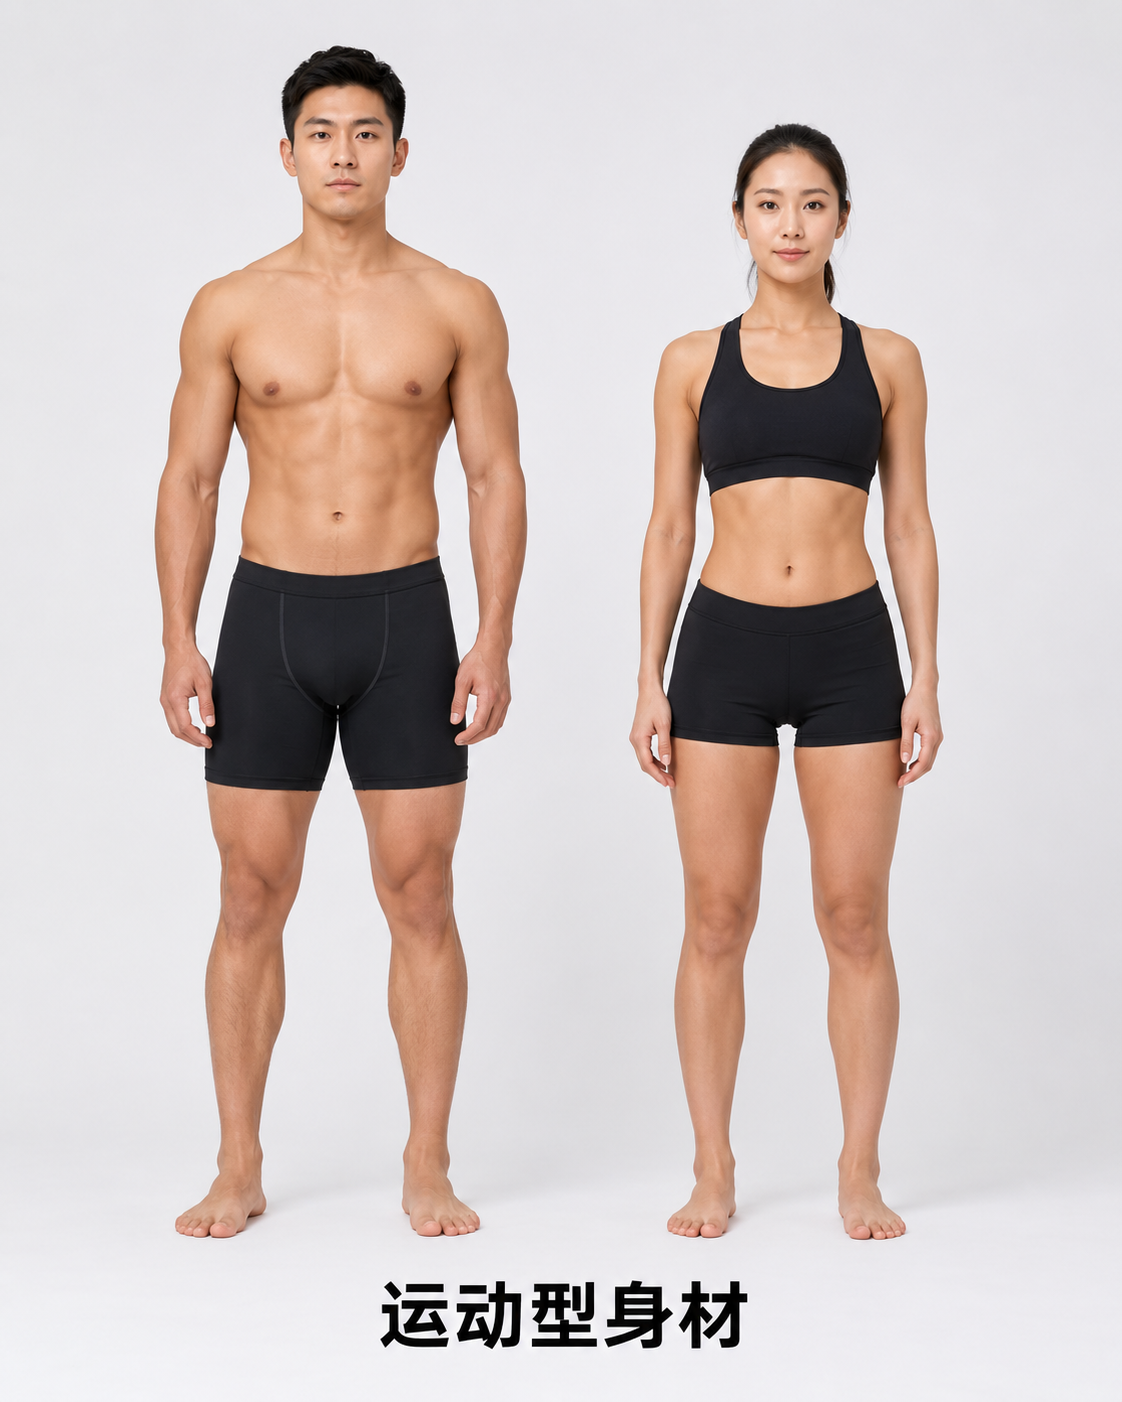
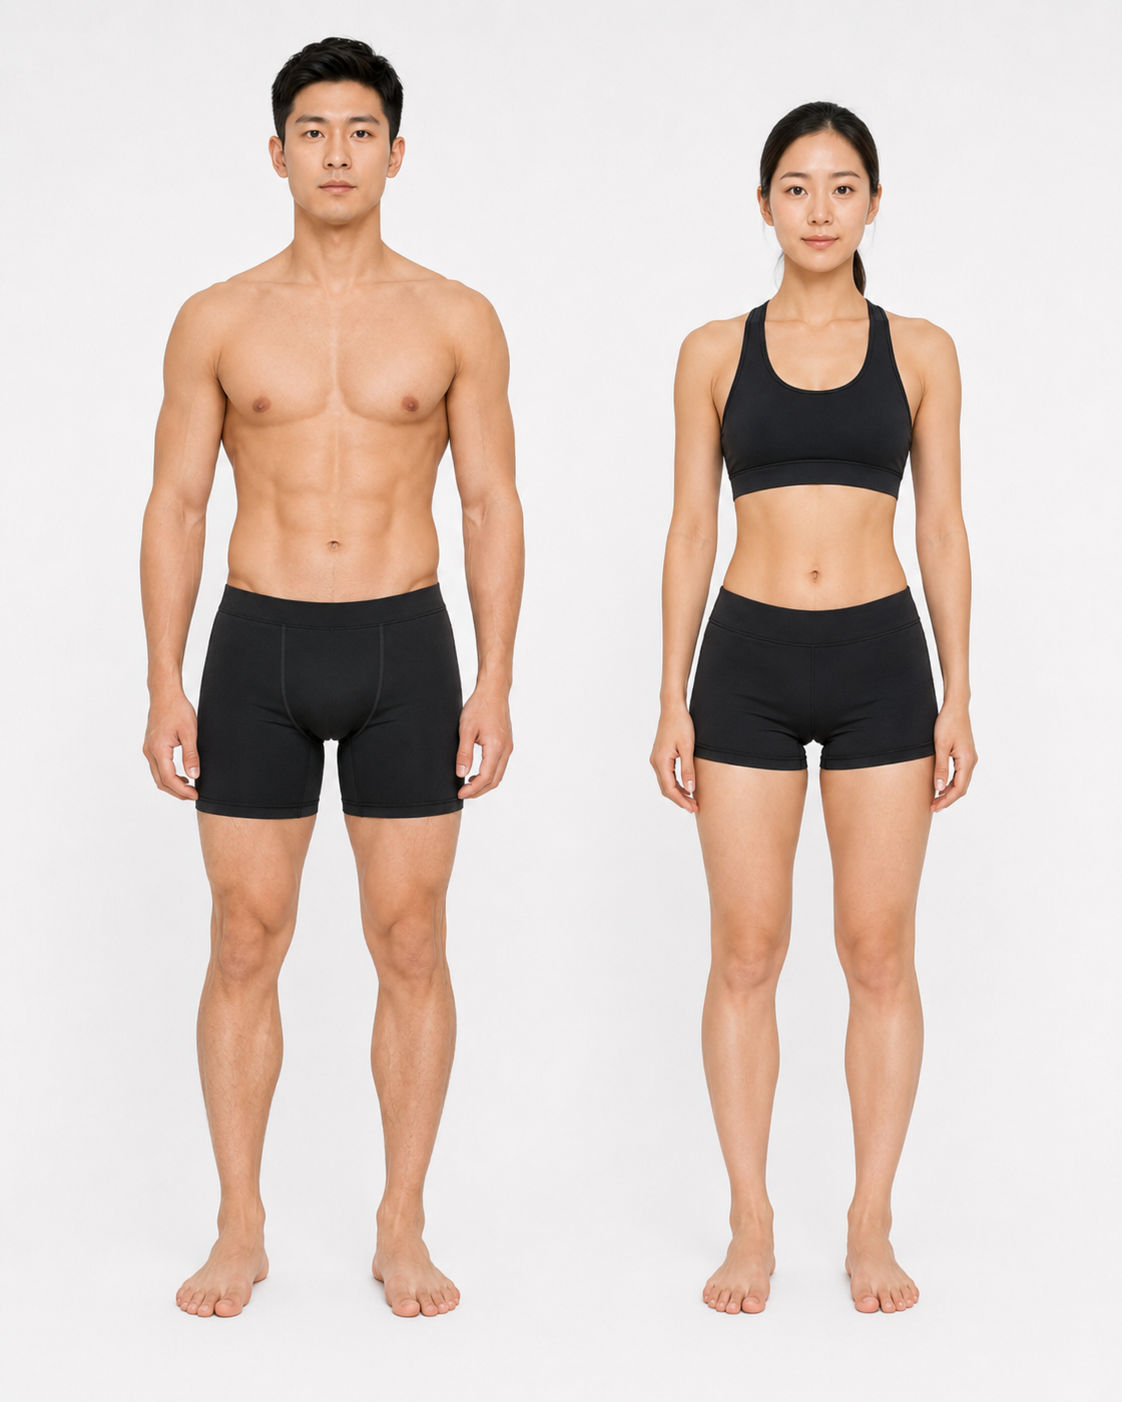
新增周训练计划总览表并更新目标身材例图
训练计划页顶部展示周一到周日安排，动作可跳转至下方视频；替换 athletic/lower/v-taper 目标身材 PNG。

Changed region(s): [[0.1248, 0.0, 0.8734, 0.9815], [0.9046, 0.6134, 1.0, 0.8281], [0.1872, 0.184, 0.2184, 0.2147]]

diff --git a/src/components/WeeklyPlanOverview.jsx b/src/components/WeeklyPlanOverview.jsx
@@ -1,0 +1,97 @@
+import { buildWeeklyOverviewRows, getDayAnchorId } from '../utils/planOverview'
+import './WeeklyPlanOverview.css'
+
+function scrollToAnchor(anchorId) {
+  const target = document.getElementById(anchorId)
+  if (!target) return
+  target.scrollIntoView({ behavior: 'smooth', block: 'start' })
+  target.classList.add('plan-overview-flash')
+  window.setTimeout(() => {
+    target.classList.remove('plan-overview-flash')
+  }, 1200)
+}
+
+/**
+ * @param {{ plan: object|null }} props
+ */
+export default function WeeklyPlanOverview({ plan }) {
+  const rows = buildWeeklyOverviewRows(plan)
+
+  if (rows.length === 0) return null
+
+  return (
+    <section className="weekly-plan-overview" aria-label="本周训练计划总览">
+      <header className="weekly-plan-overview-header">
+        <h2>本周训练计划总览</h2>
+        <p className="muted">点击动作名称可跳转到下方对应视频</p>
+      </header>
+
+      <div className="weekly-plan-overview-scroll">
+        <table className="weekly-plan-overview-table">
+          <thead>
+            <tr>
+              <th scope="col">星期</th>
+              <th scope="col">今日训练目标</th>
+              <th scope="col">动作列表</th>
+            </tr>
+          </thead>
+          <tbody>
+            {rows.map((row) => (
+              <tr
+                key={row.weekday}
+                className={[
+                  row.isToday ? 'is-today' : '',
+                  row.isRest ? 'is-rest' : '',
+                ]
+                  .filter(Boolean)
+                  .join(' ')}
+              >
+                <th scope="row">
+                  <span className="weekly-plan-weekday">{row.weekday}</span>
+                  {row.isToday && (
+                    <span className="weekly-plan-today-badge">今天</span>
+                  )}
+                </th>
+                <td>
+                  {row.isRest ? (
+                    <span className="weekly-plan-rest-label">{row.goal}</span>
+                  ) : (
+                    <button
+                      type="button"
+                      className="weekly-plan-goal-link"
+                      onClick={() =>
+                        row.dayIndex != null &&
+                        scrollToAnchor(getDayAnchorId(row.dayIndex))
+                      }
+                    >
+                      {row.goal}
+                    </button>
+                  )}
+                </td>
+                <td>
+                  {row.isRest ? (
+                    <span className="weekly-plan-rest-hint">{row.restHint}</span>
+                  ) : (
+                    <ul className="weekly-plan-exercise-list">
+                      {row.exercises.map((exercise) => (
+                        <li key={exercise.id}>
+                          <button
+                            type="button"
+                            className="weekly-plan-exercise-link"
+                            onClick={() => scrollToAnchor(exercise.anchorId)}
+                          >
+                            {exercise.name}
+                          </button>
+                        </li>
+                      ))}
+                    </ul>
+                  )}
+                </td>
+              </tr>
+            ))}
+          </tbody>
+        </table>
+      </div>
+    </section>
+  )
+}

diff --git a/src/components/WeeklyPlanOverview.css b/src/components/WeeklyPlanOverview.css
@@ -1,0 +1,157 @@
+.weekly-plan-overview {
+  padding: 1rem 1.1rem;
+  border-radius: var(--radius);
+  border: 1px solid var(--line);
+  background: var(--surface);
+  display: grid;
+  gap: 0.75rem;
+}
+
+.weekly-plan-overview-header h2 {
+  margin-bottom: 0.25rem;
+  font-size: 1.15rem;
+}
+
+.weekly-plan-overview-header .muted {
+  margin: 0;
+  font-size: 0.85rem;
+}
+
+.weekly-plan-overview-scroll {
+  overflow-x: auto;
+  -webkit-overflow-scrolling: touch;
+}
+
+.weekly-plan-overview-table {
+  width: 100%;
+  min-width: 520px;
+  border-collapse: collapse;
+  font-size: 0.9rem;
+}
+
+.weekly-plan-overview-table th,
+.weekly-plan-overview-table td {
+  padding: 0.65rem 0.75rem;
+  border-bottom: 1px solid color-mix(in srgb, var(--line) 80%, transparent);
+  vertical-align: top;
+  text-align: left;
+}
+
+.weekly-plan-overview-table thead th {
+  font-size: 0.78rem;
+  font-weight: 700;
+  color: var(--muted);
+  text-transform: uppercase;
+  letter-spacing: 0.04em;
+  background: color-mix(in srgb, var(--bg-accent) 40%, var(--surface));
+}
+
+.weekly-plan-overview-table tbody tr:last-child th,
+.weekly-plan-overview-table tbody tr:last-child td {
+  border-bottom: none;
+}
+
+.weekly-plan-overview-table tbody tr.is-today {
+  background: color-mix(in srgb, var(--accent) 10%, var(--surface));
+}
+
+.weekly-plan-overview-table tbody tr.is-today th,
+.weekly-plan-overview-table tbody tr.is-today td {
+  border-bottom-color: color-mix(in srgb, var(--accent) 25%, var(--line));
+}
+
+.weekly-plan-overview-table tbody tr.is-rest {
+  color: var(--muted);
+}
+
+.weekly-plan-weekday {
+  font-weight: 700;
+  color: var(--ink);
+}
+
+.weekly-plan-today-badge {
+  display: inline-flex;
+  margin-left: 0.35rem;
+  padding: 0.08rem 0.45rem;
+  border-radius: 999px;
+  font-size: 0.68rem;
+  font-weight: 700;
+  color: var(--accent-strong);
+  background: color-mix(in srgb, var(--accent) 16%, transparent);
+}
+
+.weekly-plan-goal-link,
+.weekly-plan-exercise-link {
+  border: none;
+  padding: 0;
+  background: none;
+  font: inherit;
+  color: var(--accent-strong);
+  font-weight: 600;
+  text-align: left;
+  cursor: pointer;
+  text-decoration: underline;
+  text-decoration-color: transparent;
+  transition: text-decoration-color 0.15s ease;
+}
+
+.weekly-plan-goal-link:hover,
+.weekly-plan-exercise-link:hover {
+  text-decoration-color: currentColor;
+}
+
+.weekly-plan-rest-label {
+  font-weight: 600;
+  color: var(--muted);
+}
+
+.weekly-plan-rest-hint {
+  font-size: 0.86rem;
+  line-height: 1.45;
+}
+
+.weekly-plan-exercise-list {
+  list-style: none;
+  margin: 0;
+  padding: 0;
+  display: flex;
+  flex-wrap: wrap;
+  gap: 0.1rem 0;
+}
+
+.weekly-plan-exercise-list li {
+  display: inline;
+}
+
+.weekly-plan-exercise-list li:not(:last-child)::after {
+  content: '、';
+  color: var(--muted);
+  margin-right: 0.15rem;
+}
+
+.plan-overview-flash {
+  animation: plan-overview-flash 1.1s ease;
+}
+
+@keyframes plan-overview-flash {
+  0% {
+    box-shadow: 0 0 0 0 color-mix(in srgb, var(--accent) 45%, transparent);
+  }
+  40% {
+    box-shadow: 0 0 0 4px color-mix(in srgb, var(--accent) 28%, transparent);
+  }
+  100% {
+    box-shadow: none;
+  }
+}
+
+@media (max-width: 560px) {
+  .weekly-plan-overview {
+    padding: 0.85rem 0.75rem;
+  }
+
+  .weekly-plan-overview-table {
+    min-width: 480px;
+    font-size: 0.84rem;
+  }
+}

diff --git a/src/utils/planOverview.js b/src/utils/planOverview.js
@@ -1,0 +1,76 @@
+/** @param {number} dayIndex @param {string} exerciseId */
+export function getExerciseAnchorId(dayIndex, exerciseId) {
+  return `plan-ex-${dayIndex}-${exerciseId}`
+}
+
+/** @param {number} dayIndex */
+export function getDayAnchorId(dayIndex) {
+  return `plan-day-${dayIndex}`
+}
+
+const WEEK_DAYS = ['周一', '周二', '周三', '周四', '周五', '周六', '周日']
+
+/** 0 = 周一 … 6 = 周日 */
+export function getTodayWeekdayIndex() {
+  const day = new Date().getDay()
+  return day === 0 ? 6 : day - 1
+}
+
+/**
+ * @param {import('../utils/planGenerator').Plan|null} plan
+ * @returns {Array<{
+ *   weekday: string,
+ *   weekdayIndex: number,
+ *   isToday: boolean,
+ *   isRest: boolean,
+ *   goal: string,
+ *   dayIndex: number|null,
+ *   exercises: Array<{ id: string, name: string, anchorId: string }>,
+ *   restHint: string,
+ * }>}
+ */
+export function buildWeeklyOverviewRows(plan) {
+  if (!plan?.days?.length) return []
+
+  const dayByLabel = new Map(plan.days.map((day) => [day.day, day]))
+  const restHints = plan.restDayHints || []
+  let restHintIndex = 0
+
+  return WEEK_DAYS.map((weekday, weekdayIndex) => {
+    const trainingDay = dayByLabel.get(weekday)
+
+    if (trainingDay) {
+      return {
+        weekday,
+        weekdayIndex,
+        isToday: weekdayIndex === getTodayWeekdayIndex(),
+        isRest: false,
+        goal: trainingDay.sessionTitle || trainingDay.focus || '训练',
+        dayIndex: trainingDay.dayIndex,
+        exercises: (trainingDay.exercises || []).map((exercise) => ({
+          id: exercise.id,
+          name: exercise.name,
+          anchorId: getExerciseAnchorId(trainingDay.dayIndex, exercise.id),
+        })),
+        restHint: '',
+      }
+    }
+
+    const restHint =
+      restHints[restHintIndex % restHints.length] || '恢复训练 · 拉伸与休息'
+    restHintIndex += 1
+
+    return {
+      weekday,
+      weekdayIndex,
+      isToday: weekdayIndex === getTodayWeekdayIndex(),
+      isRest: true,
+      goal: '恢复',
+      dayIndex: null,
+      exercises: [],
+      restHint,
+    }
+  })
+}
+
+export { WEEK_DAYS }

diff --git a/src/pages/TrainingPlan.jsx b/src/pages/TrainingPlan.jsx
@@ -1,6 +1,7 @@
 import { useEffect, useMemo, useState } from 'react'
 import { Link } from 'react-router-dom'
 import FitnessCoach from '../components/FitnessCoach'
+import WeeklyPlanOverview from '../components/WeeklyPlanOverview'
 import { describeDayBurn, describeWeekBurn } from '../utils/calorieEstimate'
 import {
   generatePlan,
@@ -22,6 +23,7 @@ import {
   toggleExerciseCompleted,
 } from '../utils/storage'
 import { youtubeThumbFromUrl } from '../utils/videoMap'
+import { getDayAnchorId, getExerciseAnchorId } from '../utils/planOverview'
 import './TrainingPlan.css'
 
 const PATH_LABEL = {
@@ -276,6 +278,8 @@ export default function TrainingPlan() {
             )}
           </header>
 
+          <WeeklyPlanOverview plan={plan} />
+
           {plan.bodyLoad && (
             <aside className="plan-body-load" aria-label="根据身体档案的运动量建议">
               <div className="plan-body-load-top">
@@ -359,6 +363,7 @@ export default function TrainingPlan() {
               return (
                 <article
                   key={`${day.day}-${day.sessionCode || day.focus}`}
+                  id={getDayAnchorId(day.dayIndex)}
                   className="plan-day"
                 >
                   <header className="plan-day-header">
@@ -390,6 +395,7 @@ export default function TrainingPlan() {
                       return (
                         <li
                           key={`${day.day}-${ex.id}`}
+                          id={getExerciseAnchorId(day.dayIndex, ex.id)}
                           className={done ? 'is-done' : undefined}
                         >
                           <div className="plan-ex-top">
